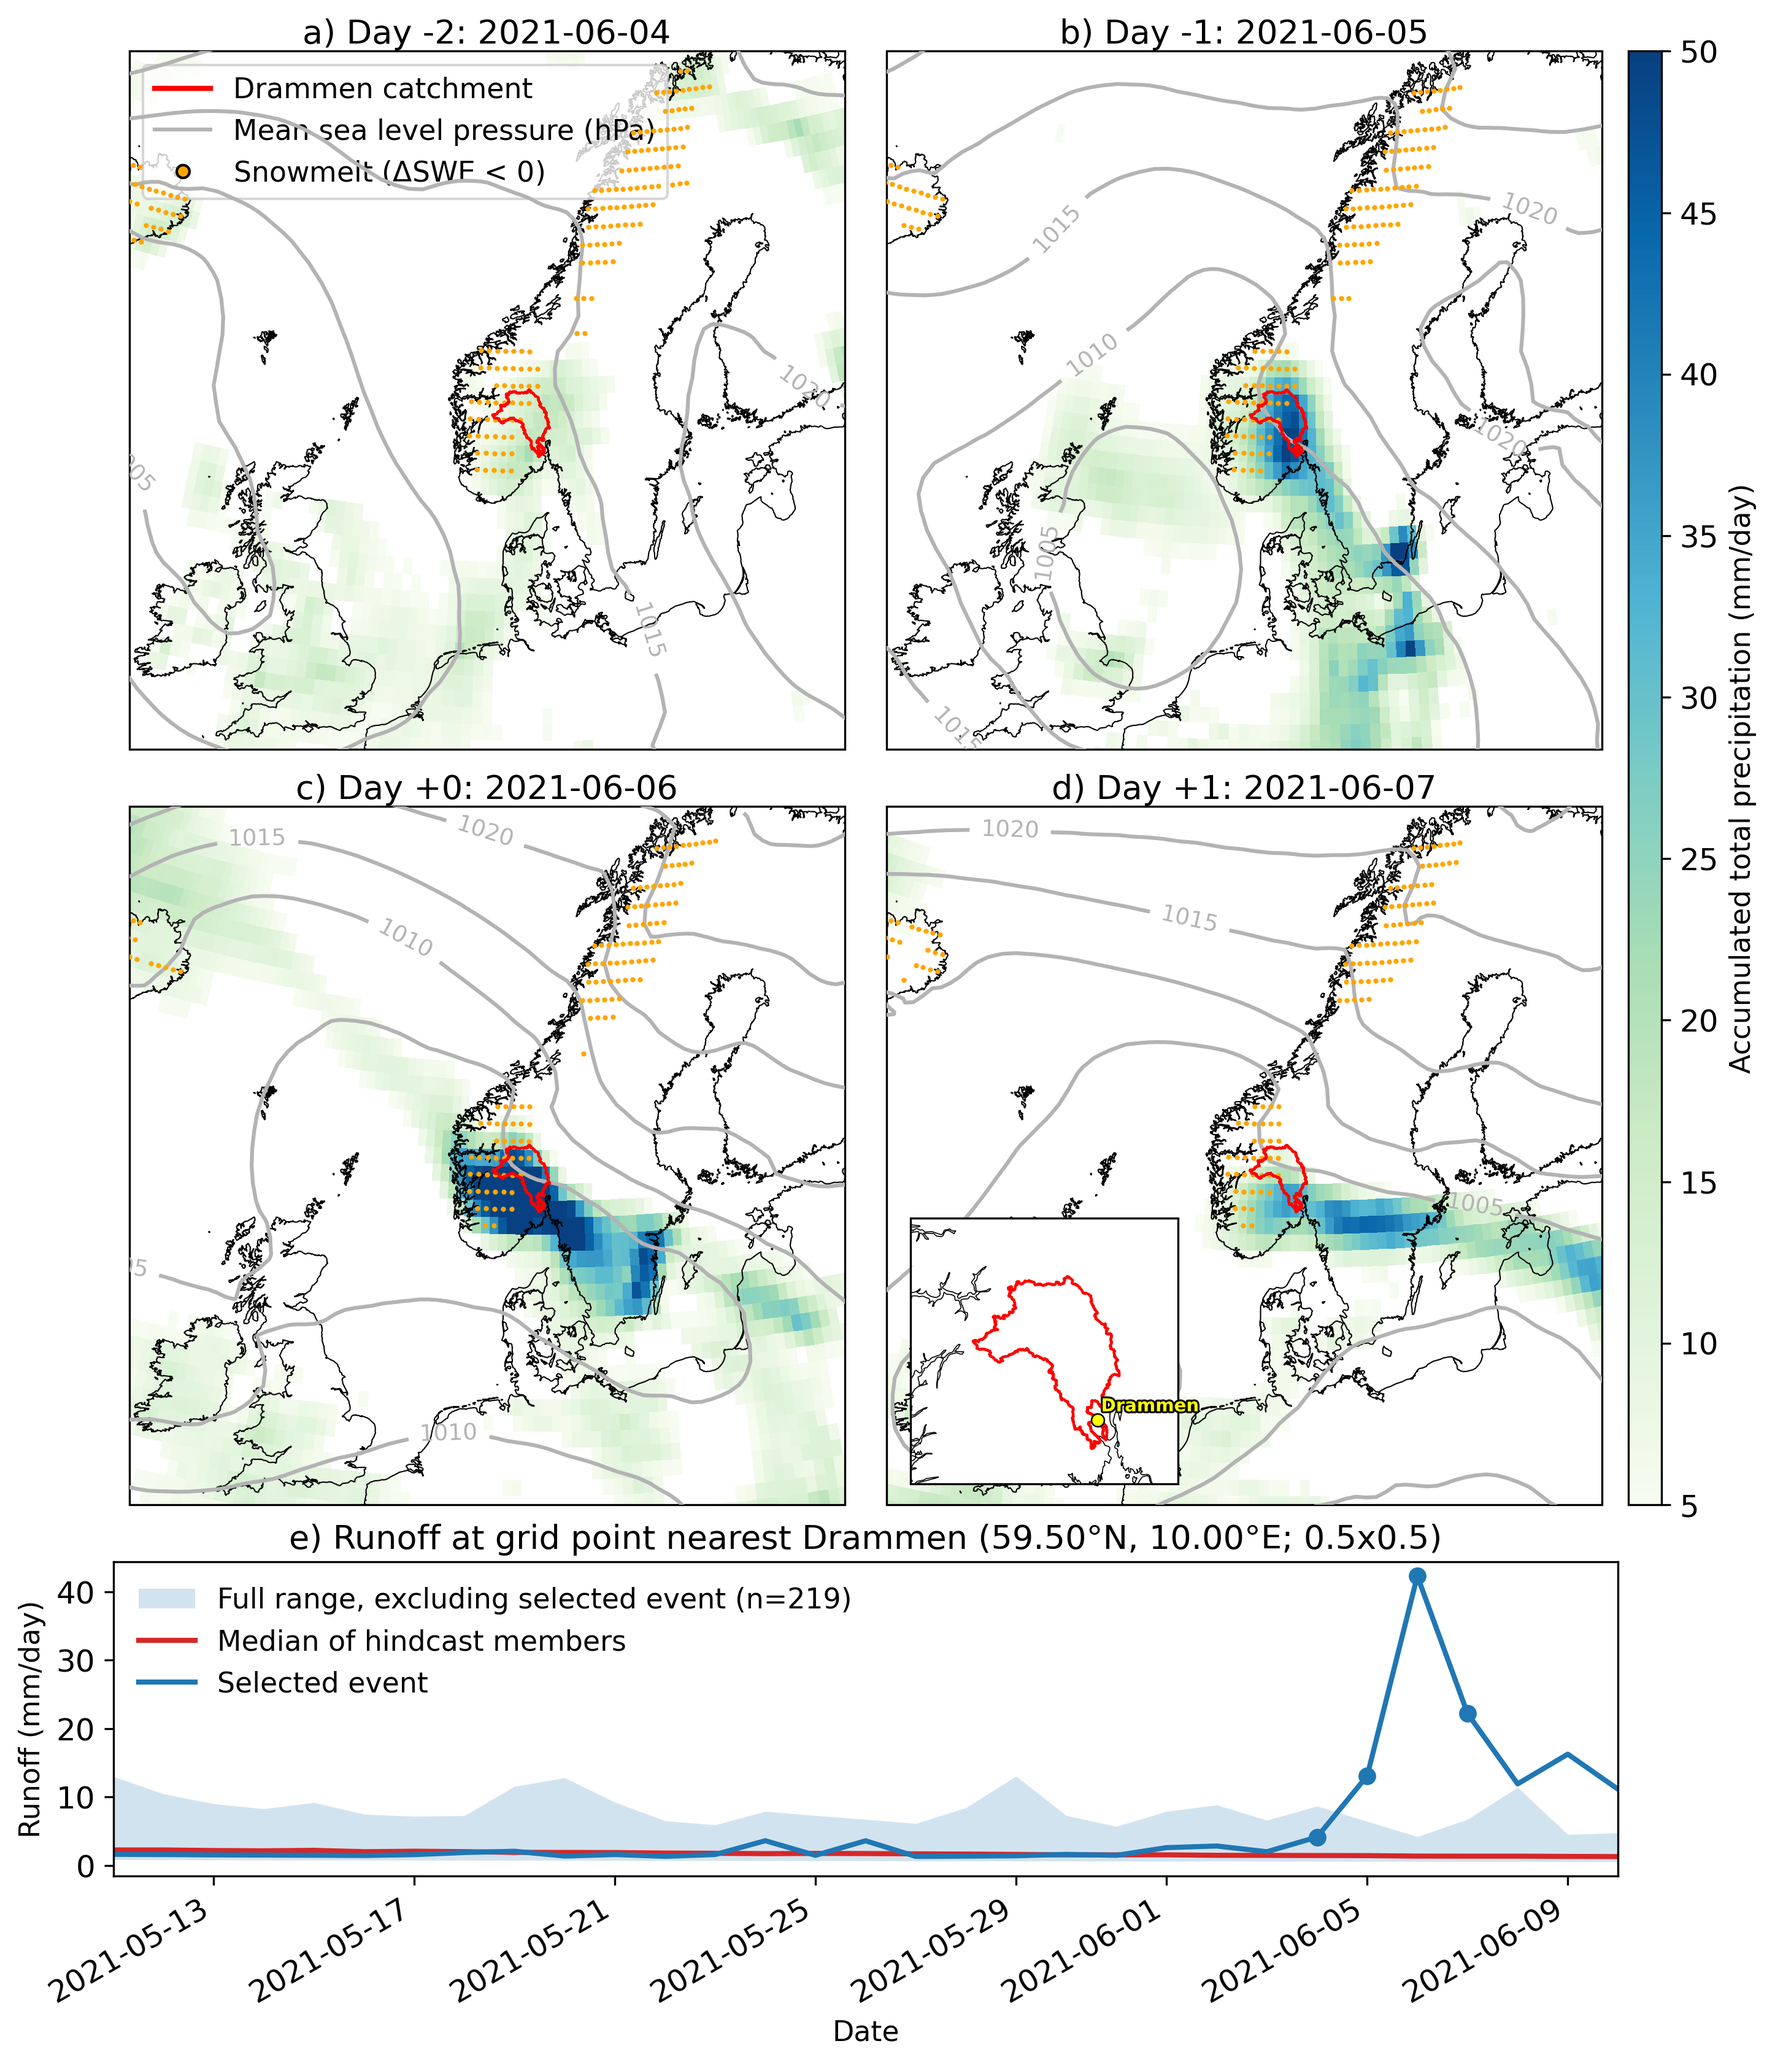
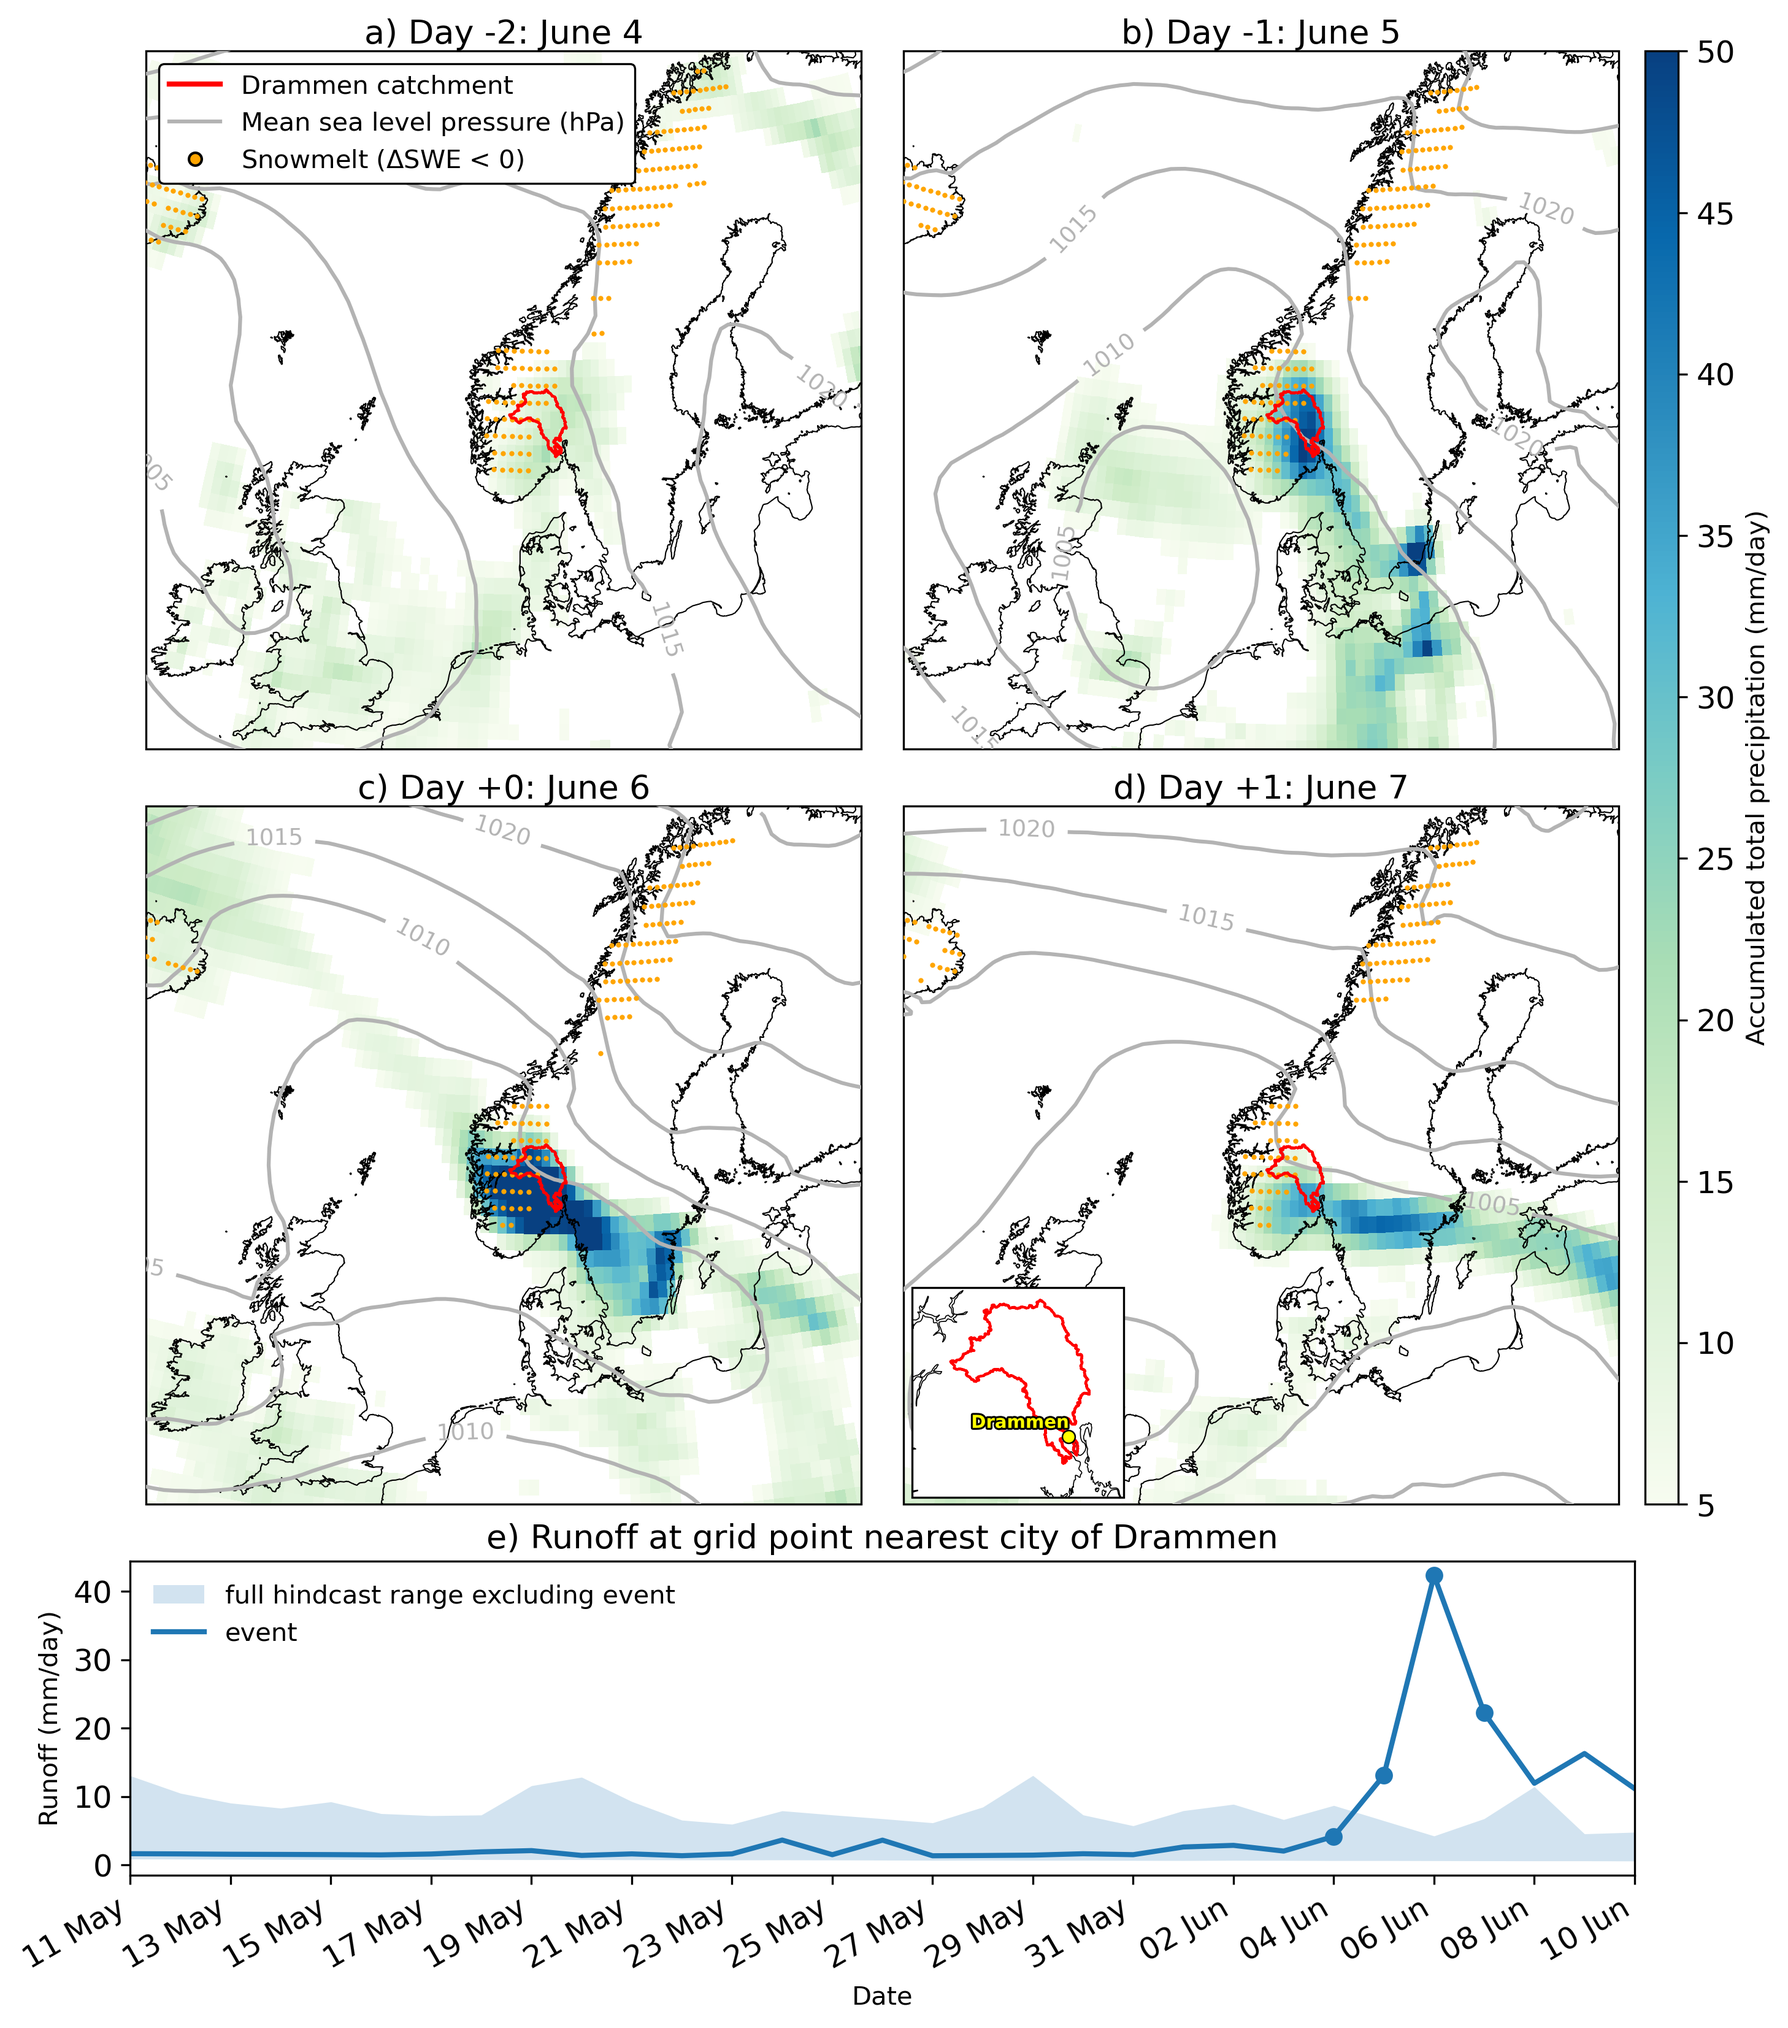
update

diff --git a/code/plot/paper_figs/temp2.py b/code/plot/paper_figs/temp2.py
@@ -53,7 +53,7 @@ DRAMMEN_LON = 10.2045
 DRAMMEN_LAT = 59.7440
 DRAMMEN_LABEL = "Drammen"
 
-ZOOM_MAP_EXTENT = [6, 12, 59, 62]
+ZOOM_MAP_EXTENT = [6.5, 11.5, 59, 61.5]
 
 DRAMMEN_MARKER_SIZE = 5
 DRAMMEN_MARKER_FACE_COLOR = "yellow"
@@ -86,7 +86,7 @@ CENTRAL_LON = 10.0
 CENTRAL_LAT = 62.0
 
 TICK_LABELSIZE = 12
-AXIS_LABELSIZE = 11
+AXIS_LABELSIZE = 10
 TITLE_FONTSIZE = 13
 CONTOUR_LABELSIZE = 9
 
@@ -832,7 +832,7 @@ def plot_event_panel(ax, event, lag, target_date, catchment_boundary, proj_data)
 def add_zoom_inset(parent_ax, proj_map, proj_data, catchment_boundary):
     """Add zoomed inset map to panel d showing Drammen catchment and city."""
     inset_ax = parent_ax.inset_axes(
-        [0.03, 0.03, 0.38, 0.38],
+        [0.01, 0.01, 0.3, 0.3],
         projection=proj_map,
         zorder=20,
     )
@@ -869,13 +869,13 @@ def add_zoom_inset(parent_ax, proj_map, proj_data, catchment_boundary):
     )
 
     txt = inset_ax.text(
-        DRAMMEN_LON + 0.08,
+        DRAMMEN_LON ,
         DRAMMEN_LAT + 0.06,
         "Drammen",
         fontsize=7,
         color="yellow",
         fontweight="bold",
-        ha="left",
+        ha="right",
         va="bottom",
         transform=proj_data,
         zorder=13,
@@ -913,17 +913,8 @@ def plot_runoff_timeseries(ts_ax, event, event_dates):
         alpha=RUNOFF_RANGE_FILL_ALPHA,
         linewidth=0,
         label=(
-            "Full range, excluding selected event "
-            f"(n={da_min.attrs['n_samples_used']})"
+            "full hindcast range excluding event"
         ),
-    )
-
-    ts_ax.plot(
-        da_median[time_name].values,
-        da_median.values,
-        color=RUNOFF_MEDIAN_LINE_COLOR,
-        linewidth=RUNOFF_MEDIAN_LINEWIDTH,
-        label="Median of hindcast members",
     )
 
     ts_ax.plot(
@@ -931,7 +922,7 @@ def plot_runoff_timeseries(ts_ax, event, event_dates):
         da_event.values,
         color=RUNOFF_EVENT_LINE_COLOR,
         linewidth=RUNOFF_EVENT_LINEWIDTH,
-        label="Selected event",
+        label="event",
     )
 
     for date in event_dates:
@@ -951,8 +942,7 @@ def plot_runoff_timeseries(ts_ax, event, event_dates):
 
     ts_ax.set_title(
         (
-            f"e) Runoff at grid point nearest {DRAMMEN_LABEL} "
-            f"({selected_lat:.2f}°N, {selected_lon:.2f}°E; {selected_grid})"
+            f"e) Runoff at grid point nearest city of {DRAMMEN_LABEL}"
         ),
         fontsize=TITLE_FONTSIZE,
         pad=5,
@@ -976,6 +966,25 @@ def plot_runoff_timeseries(ts_ax, event, event_dates):
 
     ts_ax.legend(frameon=False, fontsize=AXIS_LABELSIZE)
 
+    import matplotlib.dates as mdates
+
+    # Tick every N days
+    tick_interval_days = 2
+
+    start_date = da_event[time_name].values[0]
+    end_date = da_event[time_name].values[-1]
+
+    tick_dates = np.arange(
+        start_date,
+        end_date + np.timedelta64(1, "D"),
+        np.timedelta64(tick_interval_days, "D"),
+    )
+
+    ts_ax.set_xticks(tick_dates)
+
+    ts_ax.xaxis.set_major_formatter(
+        mdates.DateFormatter("%d %b")
+    )
 
 # =============================================================================
 # Figure finishing
@@ -991,11 +1000,29 @@ def add_panel_titles(axes, event_dates):
         EVENT_LAGS,
         event_dates,
     ):
+        formatted_date = np.datetime_as_string(
+            np.datetime64(date),
+            unit="D",
+        )
+
+        formatted_date = (
+            np.datetime64(date)
+            .astype("datetime64[D]")
+            .astype(object)
+            .strftime("%B %-d")
+        )
+
         ax.set_title(
-            f"{panel_label} Day {lag:+d}: {date}",
+            f"{panel_label} Day {lag:+d}: {formatted_date}",
             fontsize=TITLE_FONTSIZE,
             pad=3,
         )
+        
+        #ax.set_title(
+        #    f"{panel_label} Day {lag:+d}: {date}",
+        #    fontsize=TITLE_FONTSIZE,
+        #    pad=3,
+        #)
 
 
 def add_colorbar(fig, mesh, cbar_ax):
@@ -1054,12 +1081,19 @@ def add_legend(axes, catchment_label):
         get_snowmelt_legend_handle(),
     ]
 
-    axes[0, 0].legend(
-        handles=legend_handles,
-        loc="upper left",
-        frameon=True,
-        fontsize=AXIS_LABELSIZE,
+    legend = axes[0, 0].legend(
+    handles=legend_handles,
+    loc="upper left",
+    frameon=True,
+    fontsize=AXIS_LABELSIZE,
     )
+
+    legend.get_frame().set_facecolor("white")
+    legend.get_frame().set_edgecolor("black")
+    legend.get_frame().set_linewidth(0.8)
+    legend.get_frame().set_alpha(1.0)
+    legend.set_zorder(100)
+
 
 
 def finalize_figure(
